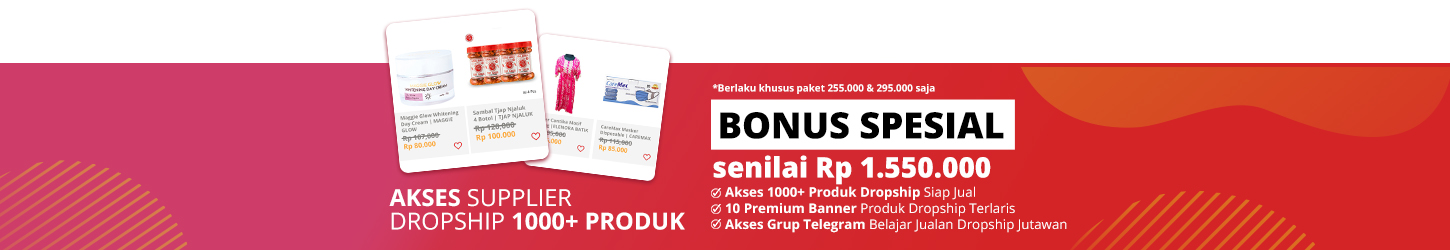
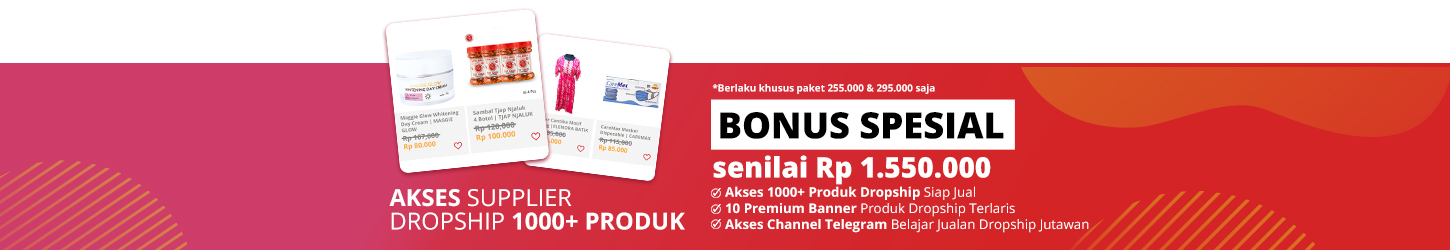
fixing

Changed region(s): [[0.5276, 0.868, 0.7448, 0.924]]

diff --git a/resources/views/pricing/pricing.blade.php b/resources/views/pricing/pricing.blade.php
@@ -362,7 +362,7 @@
           <li>Buka Bisnis <strong>Jasa Bio Link Kartu Nama Digital</strong></li>
           <li class="li-red"><strong>Bonus Akses 1000+ Produk Dropship</strong><i class="fa fa-star fa-lg clipped"></i></li>
           <li class="li-red"><strong>10 Premium Banner</strong> Produk Dropship Terlaris<i class="fa fa-star fa-lg clipped"></i></li>
-          <li class="li-red"><strong>Akses Group Telegram</strong> Belajar Jualan Dropship Jutawan<i class="fa fa-star fa-lg clipped"></i></li>
+          <li class="li-red"><strong>Akses Channel Telegram</strong> Belajar Jualan Dropship Jutawan<i class="fa fa-star fa-lg clipped"></i></li>
           
           <li class="nostyle">&nbsp;</li>
           <li class="nostyle"><i class="fa fa-star fa-lg clipped"></i>&nbsp;:&nbsp;Khusus paket elite dan super</li>
@@ -412,7 +412,7 @@
           <li>Buka Bisnis <strong>Jasa Bio Link Kartu Nama Digital</strong></li>
           <li class="li-red"><strong>Bonus Akses 1000+ Produk Dropship</strong></li>
           <li class="li-red"><strong>10 Premium Banner</strong> Produk Dropship Terlaris</li>
-          <li class="li-red"><strong>Akses Group Telegram</strong> Belajar Jualan Dropship Jutawan</li>
+          <li class="li-red"><strong>Akses Channel Telegram</strong> Belajar Jualan Dropship Jutawan</li>
           
         </div>
 
@@ -431,7 +431,7 @@
           <li>Buka Bisnis <strong>Jasa Bio Link Kartu Nama Digital</strong></li>
           <li class="li-red"><strong>Bonus Akses 1000+ Produk Dropship</strong></li>
           <li class="li-red"><strong>10 Premium Banner</strong> Produk Dropship Terlaris</li>
-          <li class="li-red"><strong>Akses Group Telegram</strong> Belajar Jualan Dropship Jutawan</li>
+          <li class="li-red"><strong>Akses Channel Telegram</strong> Belajar Jualan Dropship Jutawan</li>
           
         </div>
       </div>  <!-- end row -->
